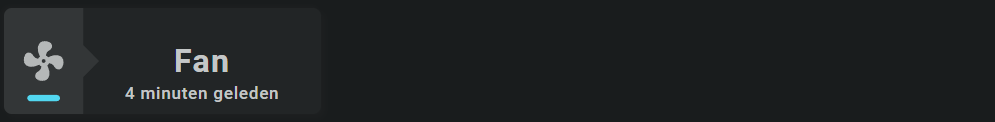
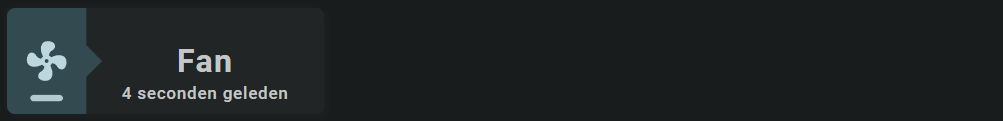
Update functional cards

Changed region(s): [[0.0, 0.0496, 0.1246, 0.9421], [0.1246, 0.6942, 0.3116, 0.843], [0.1558, 0.3967, 0.2492, 0.595]]

diff --git a/docs/design/functional-card-third-width-switch-sensor.md b/docs/design/functional-card-third-width-switch-sensor.md
@@ -18,15 +18,20 @@ These cards have no fixed size, so fill up the available space.
 ![Swiss Army Knife Functional Card Switch Sensor D06 Dark Off]
 
 ##:sak-sak-logo: Description
-This card is a minimal card which can switch a binary sensor. Either a switch or a light entity in most cases.
+This card is a minimal 1/3 width card which can switch a binary sensor. Either a switch or a light entity in most cases.
+
+The 'switch' can be recognized by the secondary theme color when in 'off' position.
 
 ####Card:
 
-- Badge is background of card
-- Icon
-- Line below as button indicator
-- Entity name
-- Entity state below it
+- Badge is background of card.
+- Left part of badge:
+    - Acts as button and has a secondary theme color
+    - Contains the entity icon
+    - Has a line below the icon as a sort of button indicator
+- Right part of badge:
+    - Contains the entity name
+    - And the entity state below it
 
 ##:sak-sak-logo: YAML Definition
 
@@ -34,8 +39,10 @@ This card is a minimal card which can switch a binary sensor. Either a switch or
 The Badge tool is used for the background, and this time as interaction area. The left part is used to switch the entity.
 Interaction is on whole tool, but right part is disabled using `pointer-events: none`.
 
+The color of the "button" follows the [filled tonal button Material 3 guideline](https://m3.material.io/components/buttons/guidelines#07a1577b-aaf5-4824-a698-03526421058b) and uses the secondary color.
+
 ```yaml linenums="1"
-              - toolset: test
+              - toolset: badge-background
                 position:
                   cx: 150
                   cy: 50
@@ -63,19 +70,19 @@ Interaction is on whole tool, but right part is disabled using `pointer-events: 
                             fill: var(--theme-sys-palette-primary30)
                       - state: 'off'
                         styles:
-                          left:
-                            fill: var(--theme-sys-elevation-surface-neutral4)
+                          left:                     # Use as filled tonal button (m3)
+                            fill: var(--theme-sys-color-secondary-container)
                     styles:
                       left:
                         fill: grey
                       right:
-                        fill: none
-                        pointer-events: none
+                        fill: none                  # Show background
+                        pointer-events: none        # Disable user interaction
 
 ```
 
 ### Entity Icon and "Switch" on Left part of Badge
-On the left I placed the entity icon, and a line as indication that this part is used as a switch to toggle the Fan.
+On the left I placed the entity icon, and a line as indication that this part is used as a switch to toggle the Fan. The secondary color should also indicate the user that this part acts like a button!
 
 ```yaml linenums="1"
               - toolset: colomn-icon
@@ -102,14 +109,15 @@ On the left I placed the entity icon, and a line as indication that this part is
                         icon: 'mdi:fan'
                         styles:
                           icon:
-                            fill: var(--primary-text-color)
-                            opacity: 0.9
+                            fill: var(--theme-sys-color-on-secondary-container)
                     styles:
                       icon:
                         fill: var(--primary-background-color)
                         opacity: 0.9
-                        pointer-events: none
+                        pointer-events: none        # Disable user interaction
+                        # transition: fill 1s ease
 
+                  # ------------------------------------------------------------
                   - type: line
                     position:
                       cx: 50
@@ -122,18 +130,18 @@ On the left I placed the entity icon, and a line as indication that this part is
                         styles:
                           line:
                             animation: headShake 1s linear infinite
-                            stroke: var(--primary-background-color)
-                            stroke: var(--theme-sys-palette-primary90)
+                            stroke: var(--theme-sys-color-secondary-container)
                       - state: 'off'
                         styles:
                           line:
-                            stroke: var(--theme-sys-palette-primary30)
+                            stroke: var(--theme-sys-color-secondary)
                     styles:
                       line:
                         stroke-width: 6em
 ```
 ### Name and state
-
+Display entity name and below it the entity state.
+Both are positioned in the middle of the right part of the badge tool.
 ```yaml linenums="1"
               - toolset: colomn-name
                 position:
@@ -170,6 +178,8 @@ On the left I placed the entity icon, and a line as indication that this part is
 
 ??? Info "Full definition of card"
     ```yaml linenums="1"
+    - type: horizontal-stack
+      cards:
         - type: 'custom:swiss-army-knife-card'
           entities:
             - entity: light.livingroom_light_duo_right_light
@@ -183,7 +193,7 @@ On the left I placed the entity icon, and a line as indication that this part is
           layout:
             toolsets:
               # ================================================================
-              - toolset: test
+              - toolset: badge-background
                 position:
                   cx: 150
                   cy: 50
@@ -211,14 +221,14 @@ On the left I placed the entity icon, and a line as indication that this part is
                             fill: var(--theme-sys-palette-primary30)
                       - state: 'off'
                         styles:
-                          left:
-                            fill: var(--theme-sys-elevation-surface-neutral4)
+                          left:                     # Use as filled tonal button (m3)
+                            fill: var(--theme-sys-color-secondary-container)
                     styles:
                       left:
                         fill: grey
                       right:
-                        fill: none
-                        pointer-events: none
+                        fill: none                  # Show background
+                        pointer-events: none        # Disable user interaction
 
               # ================================================================
               - toolset: colomn-icon
@@ -245,15 +255,15 @@ On the left I placed the entity icon, and a line as indication that this part is
                         icon: 'mdi:fan'
                         styles:
                           icon:
-                            fill: var(--primary-text-color)
-                            opacity: 0.9
+                            fill: var(--theme-sys-color-on-secondary-container)
                     styles:
                       icon:
                         fill: var(--primary-background-color)
                         opacity: 0.9
-                        pointer-events: none
+                        pointer-events: none        # Disable user interaction
                         # transition: fill 1s ease
 
+                  # ------------------------------------------------------------
                   - type: line
                     position:
                       cx: 50
@@ -266,12 +276,11 @@ On the left I placed the entity icon, and a line as indication that this part is
                         styles:
                           line:
                             animation: headShake 1s linear infinite
-                            stroke: var(--primary-background-color)
-                            stroke: var(--theme-sys-palette-primary90)
+                            stroke: var(--theme-sys-color-secondary-container)
                       - state: 'off'
                         styles:
                           line:
-                            stroke: var(--theme-sys-palette-primary30)
+                            stroke: var(--theme-sys-color-secondary)
                     styles:
                       line:
                         stroke-width: 6em

diff --git a/docs/design/how-to-create-functional-cards.md b/docs/design/how-to-create-functional-cards.md
@@ -49,65 +49,23 @@ The animated version looks like this:
 ![AmoebeLabs Swiss Army Knife Custom Card Example 12 Cards]
 
 
-And YES, you can have Alert icons too if you want :smile:
+Current implementation:
 
-![AmoebeLabs Swiss Army Knife Example 12 D06 Light]
+![AmoebeLabs Swiss Army Knife Functional Cards Overview 12 D06 Light Off]
 
-The first alert (Movement) is defined as follows:
-```yaml linenums="1"
-- type: icon
-  position:
-    cx: 50
-    cy: 50
-    align: center
-    icon_size: 25
-  entity_index: 0                       # Use state from 0
-  icon: mdi:alert-circle                # Use alert circle icon
-  animations:
-    - state: 'on'                       # If ON
-      styles:
-        icon:
-          fill: var(--brand-google-red) # Set icon to red color
-    - state: 'off'                      # If OFF
-      styles:
-        icon:
-          display: none                 # Hide icon
-  styles:
-    icon:
-      fill: grey                        # Default grey color
-```
-
-!!! Note "The last row are rounded cards, and meant to be displayed smaller, hence 3 in a horizontal stack"
-    They are exact the same size as the cards above, but are scaled down by the horizontal stack.
-    
-    Just three variations on exactly the same tool: the `badge` tool. Not yet documented, but it just takes care of a badge-alike background.
-    You can set the size for the left/right part and the size of the triangle.
+![AmoebeLabs Swiss Army Knife Functional Cards Overview 12 D06 Light On]
 
 And the dark variants with switches / alerts ON:
 
-![AmoebeLabs Swiss Army Knife Example 12 D06 Dark On]
-
-...And switched OFF:
-
-![AmoebeLabs Swiss Army Knife Example 12 D06 Dark Off]
+![AmoebeLabs Swiss Army Knife Functional Cards Overview 12 D06 Dark On]
 
 And using a Purple Material 3 theme:
 
-![AmoebeLabs Swiss Army Knife Example 12 C11 Light]
+![AmoebeLabs Swiss Army Knife Functional Cards Overview 12 C11 Light On]
 
 And an Olive Green Material 3 theme:
 
-![AmoebeLabs Swiss Army Knife Example 12 D07 Light]
-
-![Swiss Army Knife Functional Card AirVisual D06 Light]
-![Swiss Army Knife Functional Card Binary Sensor Alert D06 Dark On]
-![Swiss Army Knife Functional Card Binary Sensor Alert D06 Light On]
-![Swiss Army Knife Functional Card Binary Sensor Alert D06 Light Off]
-![Swiss Army Knife Functional Card Switch D06 Light]
-![Swiss Army Knife Functional Card Power Outlet D06 Light]
-![Swiss Army Knife Functional Card AQI Sensor D06 Light]
-![Swiss Army Knife Functional Card Binary Sensor D06 Light]
-
+![AmoebeLabs Swiss Army Knife Functional Cards Overview 12 D07 Light On]
 
 <!-- Image references -->
 
@@ -123,6 +81,12 @@ And an Olive Green Material 3 theme:
 
 [AmoebeLabs Swiss Army Knife Example 12 D07 Light]: ../assets/screenshots/swiss-army-knife-example-12d-d07-light.png
 [AmoebeLabs Swiss Army Knife Example 12 C11 Light]: ../assets/screenshots/swiss-army-knife-example-12d-c11-light.png
+
+[AmoebeLabs Swiss Army Knife Functional Cards Overview 12 D06 Light Off]: ../assets/screenshots/sak-functional-cards-12-overview-d06-light-off.png
+[AmoebeLabs Swiss Army Knife Functional Cards Overview 12 D06 Light On]: ../assets/screenshots/sak-functional-cards-12-overview-d06-light-on.png
+[AmoebeLabs Swiss Army Knife Functional Cards Overview 12 D07 Light On]: ../assets/screenshots/sak-functional-cards-12-overview-d07-light-on.png
+[AmoebeLabs Swiss Army Knife Functional Cards Overview 12 C11 Light On]: ../assets/screenshots/sak-functional-cards-12-overview-c11-light-on.png
+[AmoebeLabs Swiss Army Knife Functional Cards Overview 12 D06 Dark On]: ../assets/screenshots/sak-functional-cards-12-overview-d06-dark-on.png
 
 [Swiss Army Knife Functional Card AirVisual D06 Light]: ../assets/screenshots/sak-functional-card-12-full-width-airvisual-theme-d06-light.png
 [Swiss Army Knife Functional Card Binary Sensor Alert D06 Dark On]: ../assets/screenshots/sak-functional-card-12-third-width-binary-sensor-alert-theme-d06-dark-on.png
